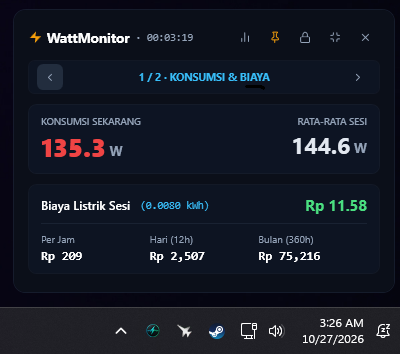
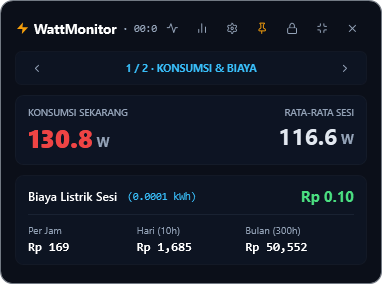
docs: update screenshots with native live captures across all views

diff --git a/README.md b/README.md
@@ -14,26 +14,44 @@ Gak perlu buka software monitoring berat nan ribet kalau cuma mau ngecek PC lagi
 
 <table>
   <tr>
-    <td align="center" width="33%">
+    <td align="center" width="50%">
       <a href="assets/ss-app-1.png">
-        <img src="assets/ss-app-1.png" alt="Minimalist HUD" style="max-width: 100%;" />
+        <img src="assets/ss-app-1.png" alt="Full Dashboard" style="max-width: 100%;" />
       </a>
       <br />
-      <sub><b>Minimalist HUD</b> (Klik untuk perbesar)</sub>
+      <sub><b>Full Dashboard (Monitoring Watt & Biaya)</b></sub>
     </td>
-    <td align="center" width="33%">
+    <td align="center" width="50%">
       <a href="assets/ss-app-2.png">
-        <img src="assets/ss-app-2.png" alt="Full Dashboard & Context Menu" style="max-width: 100%;" />
+        <img src="assets/ss-app-2.png" alt="Minimalist HUD" style="max-width: 100%;" />
       </a>
       <br />
-      <sub><b>Full Dashboard & Menu</b> (Klik untuk perbesar)</sub>
+      <sub><b>Minimalist HUD Overlay</b></sub>
     </td>
-    <td align="center" width="33%">
+  </tr>
+  <tr>
+    <td align="center" width="50%">
       <a href="assets/ss-app-3.png">
-        <img src="assets/ss-app-3.png" alt="Laporan Pemakaian & Statistik" style="max-width: 100%;" />
+        <img src="assets/ss-app-3.png" alt="Sensor Hardware" style="max-width: 100%;" />
       </a>
       <br />
-      <sub><b>Laporan & Statistik</b> (Klik untuk perbesar)</sub>
+      <sub><b>Sensor Hardware (Live Telemetri & Multi-Sort)</b></sub>
+    </td>
+    <td align="center" width="50%">
+      <a href="assets/ss-app-4.png">
+        <img src="assets/ss-app-4.png" alt="Pengaturan & Deteksi Hardware" style="max-width: 100%;" />
+      </a>
+      <br />
+      <sub><b>Pengaturan & Deteksi Komponen Otomatis</b></sub>
+    </td>
+  </tr>
+  <tr>
+    <td align="center" colspan="2">
+      <a href="assets/ss-app-5.png">
+        <img src="assets/ss-app-5.png" alt="Laporan Pemakaian & Biaya" style="max-width: 100%;" />
+      </a>
+      <br />
+      <sub><b>Laporan Riwayat Pemakaian & Statistik Bulanan</b></sub>
     </td>
   </tr>
 </table>
